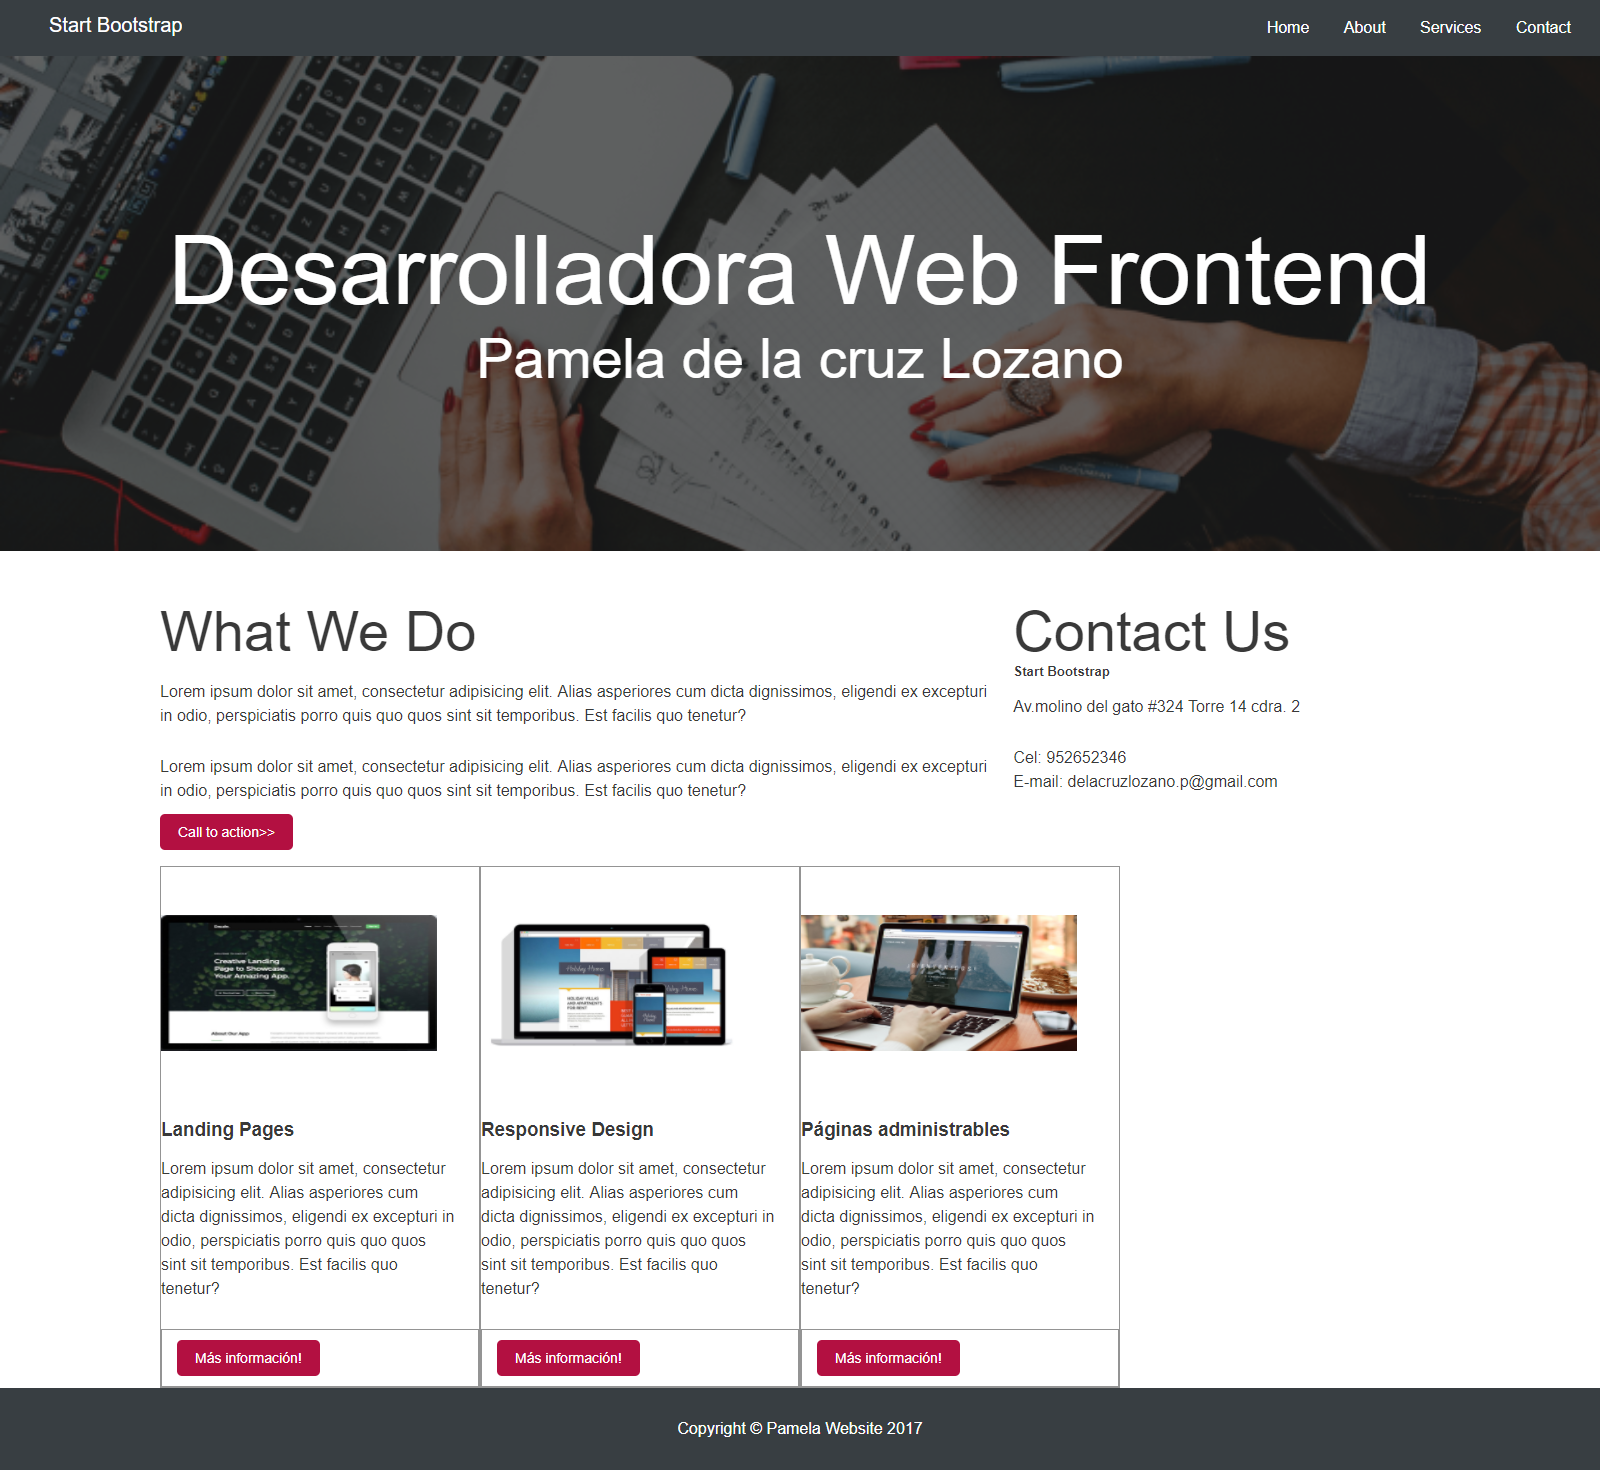
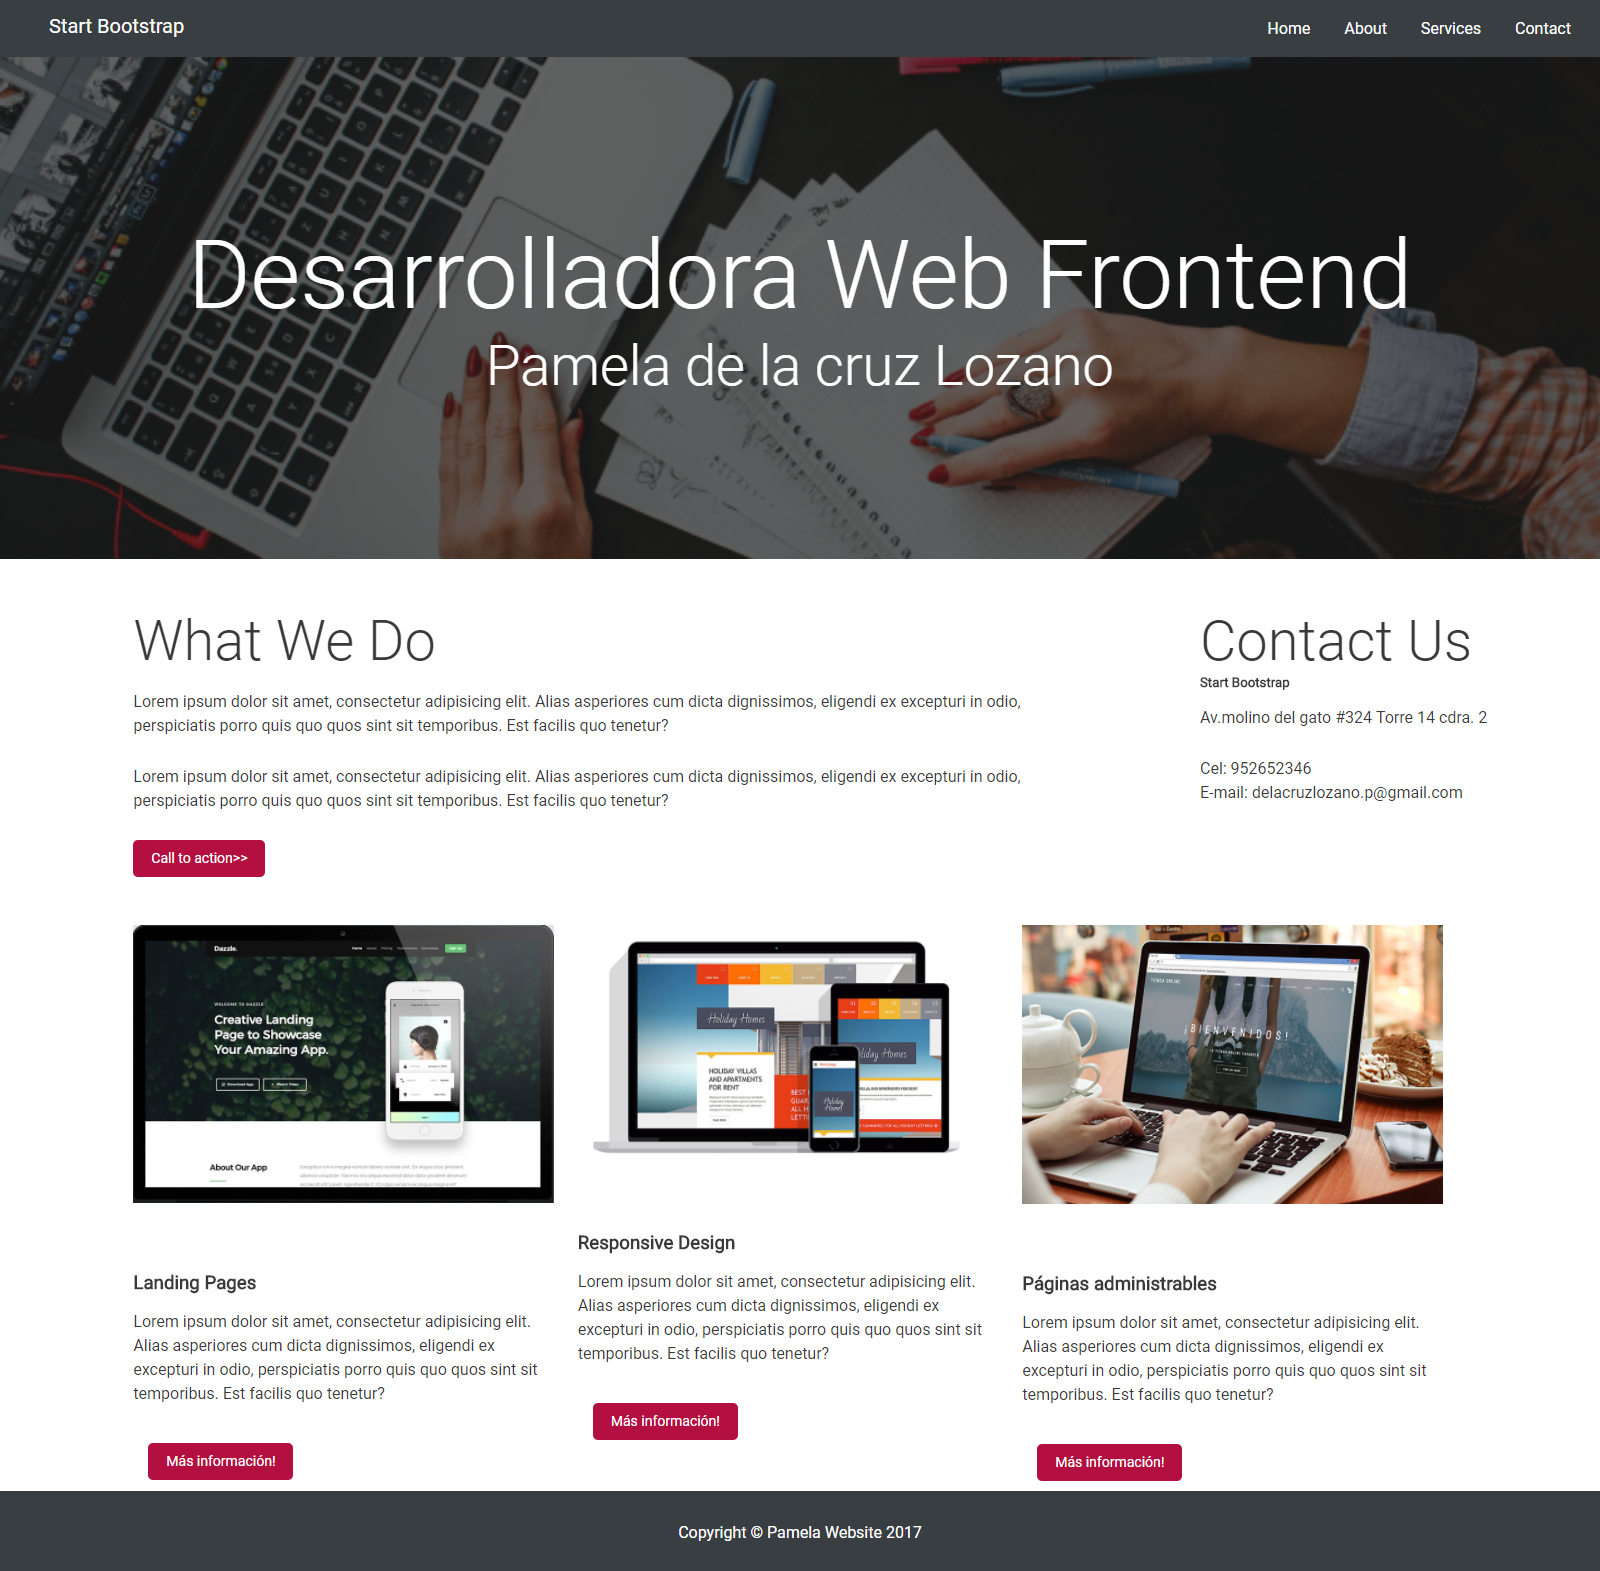
Actualizando archivos ccs y html

diff --git a/index.html b/index.html
@@ -73,45 +73,45 @@
                         <figure>
                             <img class="card-gallery" src="assets/images/landing.jpg" alt="card-image">
                         </figure>
-                    <div class="text-separador">
-                        <h3>Landing Pages</h3>
-                        <p> Lorem ipsum dolor sit amet, consectetur adipisicing elit. Alias asperiores cum dicta dignissimos, eligendi ex excepturi in odio, perspiciatis porro quis quo quos sint sit temporibus. Est facilis quo tenetur?</p>
-                    </div>  
-                    <div class="more-information"> 
-                        <a href="#" class="button">Más información!</a>
-                    </div> 
+                        <div class="text-separador">
+                            <h3>Landing Pages</h3>
+                            <p> Lorem ipsum dolor sit amet, consectetur adipisicing elit. Alias asperiores cum dicta dignissimos, eligendi ex excepturi in odio, perspiciatis porro quis quo quos sint sit temporibus. Est facilis quo tenetur?</p>
+                        </div>  
+                        <div class="more-information"> 
+                            <a href="#" class="button">Más información!</a>
+                        </div> 
+                    </div>
                 </div>
+                <div class="col-md-4 col-xs-10">
+                    <div class=" box-separator col-section">
+                        <figure>
+                            <img class="card-gallery" src="assets/images/responsive.jpg" alt="card-image">
+                        </figure>
+                        <div class="text-separador">
+                            <h3>Responsive Design</h3>
+                            <p>Lorem ipsum dolor sit amet, consectetur adipisicing elit. Alias asperiores cum dicta dignissimos, eligendi ex excepturi in odio, perspiciatis porro quis quo quos sint sit temporibus. Est facilis quo tenetur?</p>
                         </div>
-                        <div class="col-md-4 col-xs-10">
-                            <div class=" box-separator col-section">
-                                <figure>
-                                    <img class="card-gallery" src="assets/images/responsive.jpg" alt="card-image">
-                                </figure>
-                                <div class="text-separador">
-                                    <h3>Responsive Design</h3>
-                                    <p>Lorem ipsum dolor sit amet, consectetur adipisicing elit. Alias asperiores cum dicta dignissimos, eligendi ex excepturi in odio, perspiciatis porro quis quo quos sint sit temporibus. Est facilis quo tenetur?</p>
-                                </div>
-                                <div class="more-information">
-                                    <a href="#" class="button">Más información!</a>
-                                </div>
-                            </div>
-                        </div>
-                        <div class="col-md-4 col-xs-10">
-                            <div class="box-separator col-section ">
-                                <figure>
-                                    <img class="card-gallery" src="assets/images/administrable.jpg" alt="card-image">
-                                </figure>
-                                <div class="text-separador">
-                                    <h3>Páginas administrables</h3>
-                                    <p>Lorem ipsum dolor sit amet, consectetur adipisicing elit. Alias asperiores cum dicta dignissimos, eligendi ex excepturi in odio, perspiciatis porro quis quo quos sint sit temporibus. Est facilis quo tenetur?</p>
-                                </div>
-                                <div class="more-information">
-                                    <a href="#" class="button">Más información!</a>
-                                </div>
-                            </div>
+                        <div class="more-information">
+                            <a href="#" class="button">Más información!</a>
                         </div>
                     </div>
-                </section>
+                </div>
+                <div class="col-md-4 col-xs-10">
+                    <div class="box-separator col-section ">
+                        <figure>
+                            <img class="card-gallery" src="assets/images/administrable.jpg" alt="card-image">
+                        </figure>
+                        <div class="text-separador">
+                            <h3>Páginas administrables</h3>
+                            <p>Lorem ipsum dolor sit amet, consectetur adipisicing elit. Alias asperiores cum dicta dignissimos, eligendi ex excepturi in odio, perspiciatis porro quis quo quos sint sit temporibus. Est facilis quo tenetur?</p>
+                        </div>
+                        <div class="more-information">
+                            <a href="#" class="button">Más información!</a>
+                        </div>
+                    </div>
+                </div>
+            </div>
+        </section>
     </div>
     
     <!--FOOTER-->

diff --git a/css/main.css b/css/main.css
@@ -115,36 +115,19 @@ h2 {
     padding: 1rem 0 0.7rem 0;
 }
 
-/*.card-gallery {
-    /*border: 1px solid white;
-    width: 300px;
-    height: 200px;
-    margin: 0 auto;
-}*/
 .card-gallery {
     width: 100%;
     margin: 0 auto;
 }
-.box-separator figure {
-   
-}
-
-
 
 .more-information {
-    padding: 10px 0 10px 15px;
-    /*border: 1px solid rgb(148, 148, 148);*/
-    
+    padding: 10px 0 10px 15px;    
 }
 
 /*STYLE FOR THE FOOTER*/
 footer {
     padding: 2rem;
 }
-  
-/*.col-section {
-    width: 100%;
-}*/
 
 .view-mobile {
     display: block;
@@ -164,21 +147,7 @@ ul li {
 /*GRID MOVIL AND DESKTOP*/
 /*GRID MOVIL/ TABLET Esto hace que sea responsive*/
 @media (min-width: 768px) {
-    /*.col-section {
-     width: 50%;
-     float: left;
-   }*/
-   
-    /*.box-separator {
-    color: #393939;
-    padding: 3rem 1.5rem;
-    display: inline-block;
-    align-self: center;
-        }*/
-        
-        .box-separator  {
-            width: 80%;
-        }
+      
    section {
      overflow: auto;
      display: flex;
@@ -198,7 +167,5 @@ ul li {
  
  /*GRID DESKTOP*/
  @media (min-width: 1200px) {
-   /*section{
-     margin: 0 10rem;
-   }*/
+   
  }

diff --git a/README.md b/README.md
@@ -18,6 +18,10 @@
 
 ## PRODUCTO FINAL
 
-* Vista desde la ventana del navegador a medida se haga más pequeña.
+* Vista desde la ventana del navegador desktop a medida se haga más pequeña.
 
 ![recursos](assets/images/final.png)
+
+* Vista desde la ventana del navegador móvil a medida se haga más pequeña.
+
+![recursos](assets/images/movil.png)
